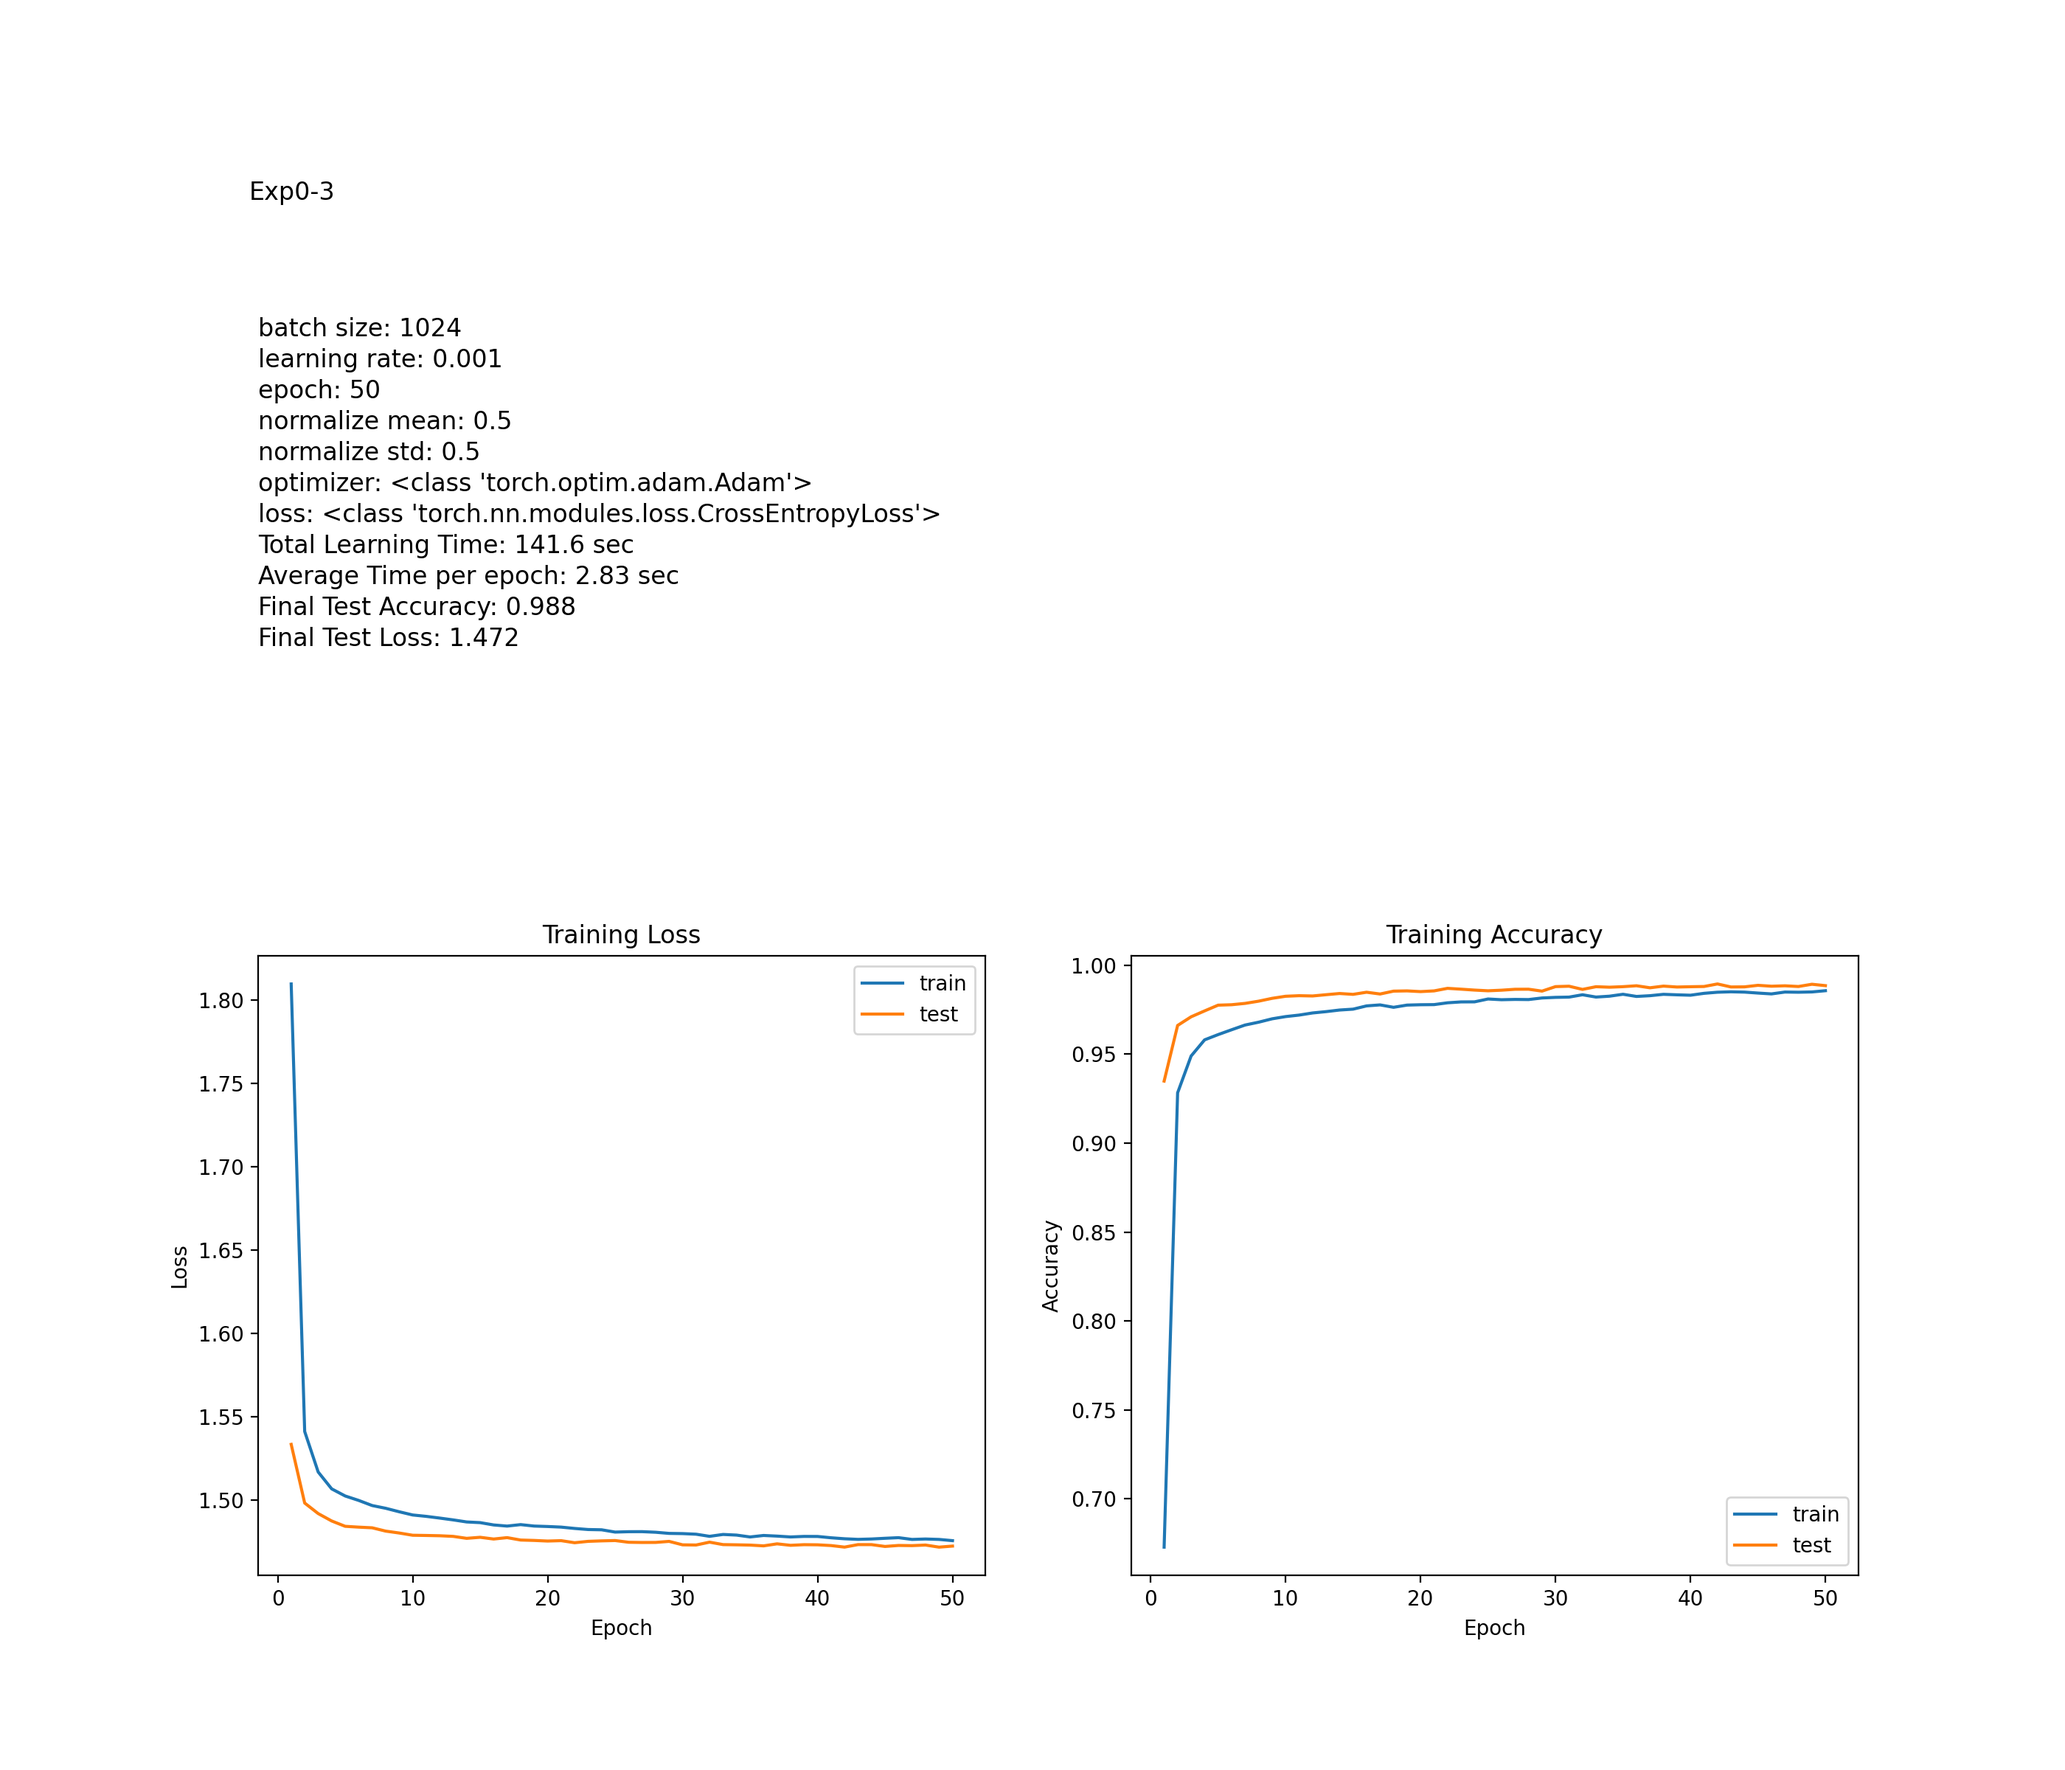
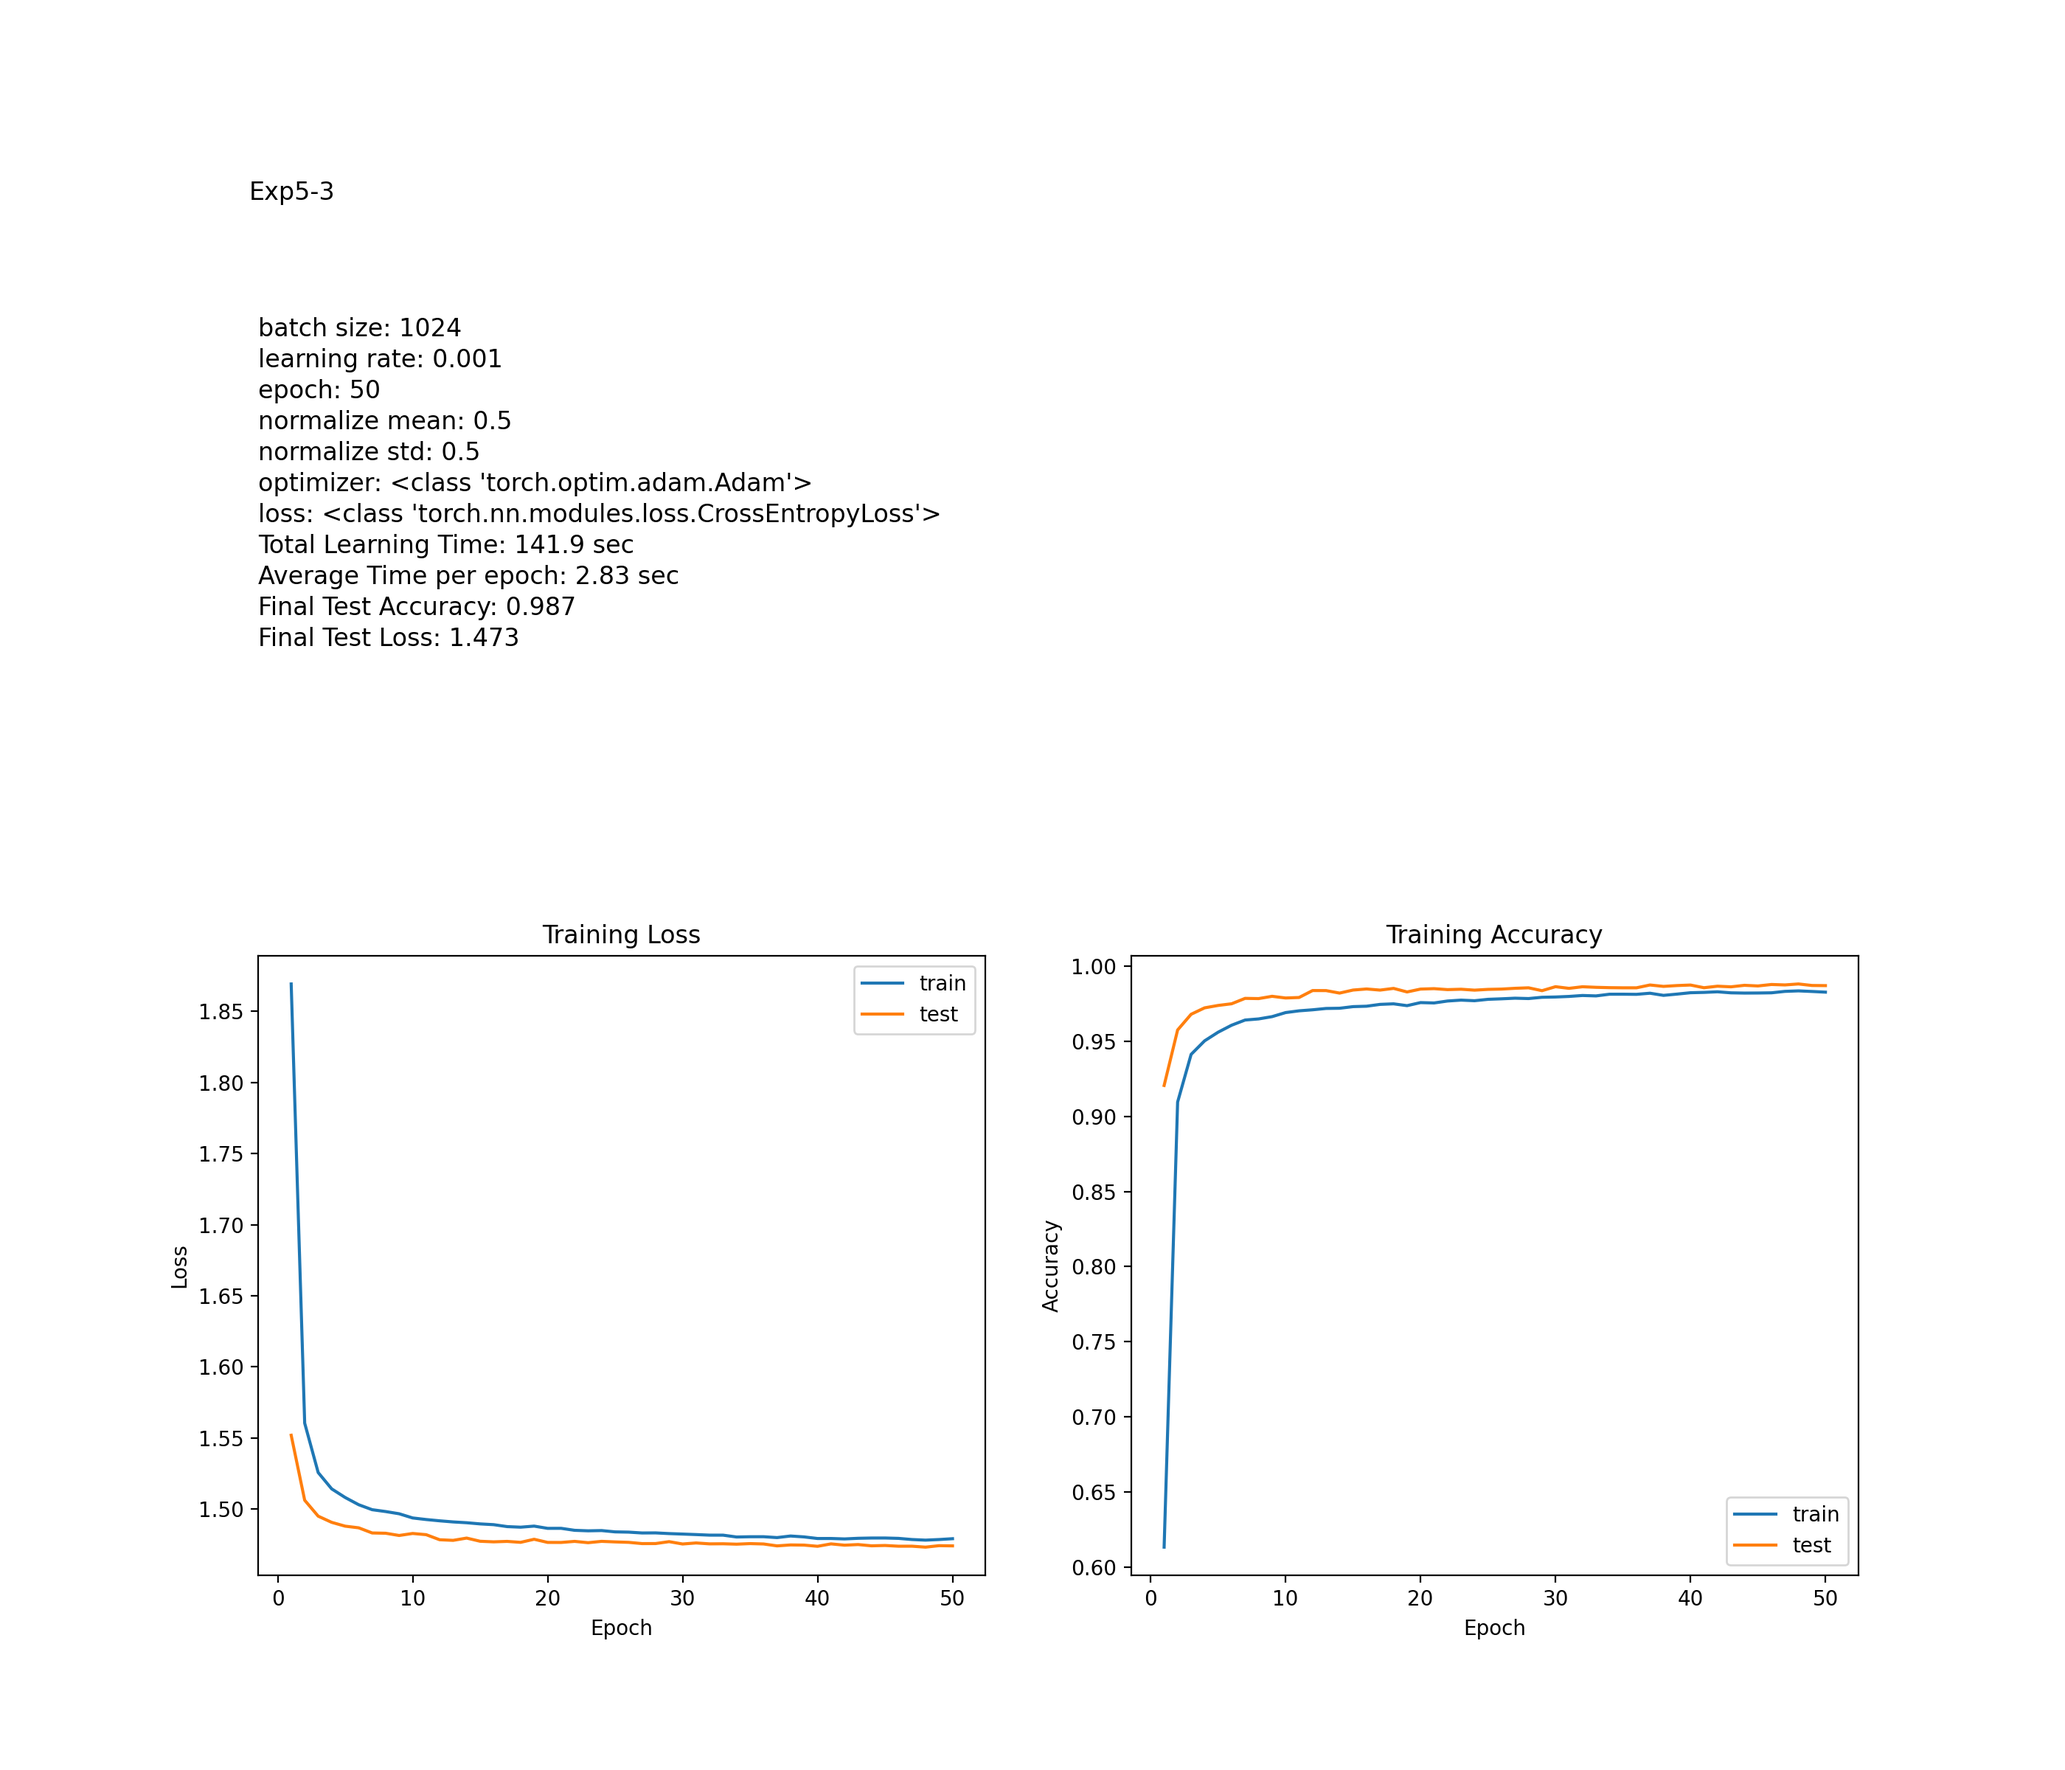
보고서 완성

diff --git a/src/hw2_MNIST/hw2_mnist_learning.py b/src/hw2_MNIST/hw2_mnist_learning.py
@@ -42,7 +42,7 @@ class params:
 
 # 파라미터 객체 생성.
 # 여기에서 실험에서 변경할 파라미터를 설정한다.
-param = params(normalize_mean=0.1307, normalize_std=0.3018)
+param = params()
 
 
 # cnn 모델 정의
